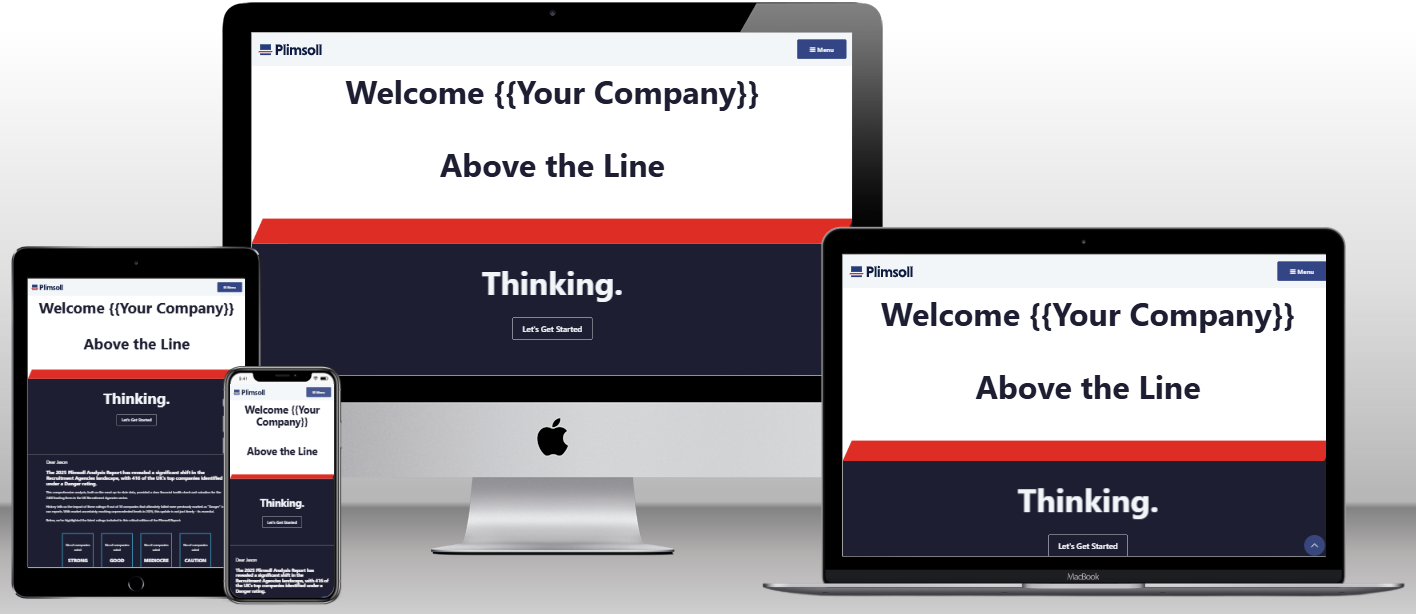
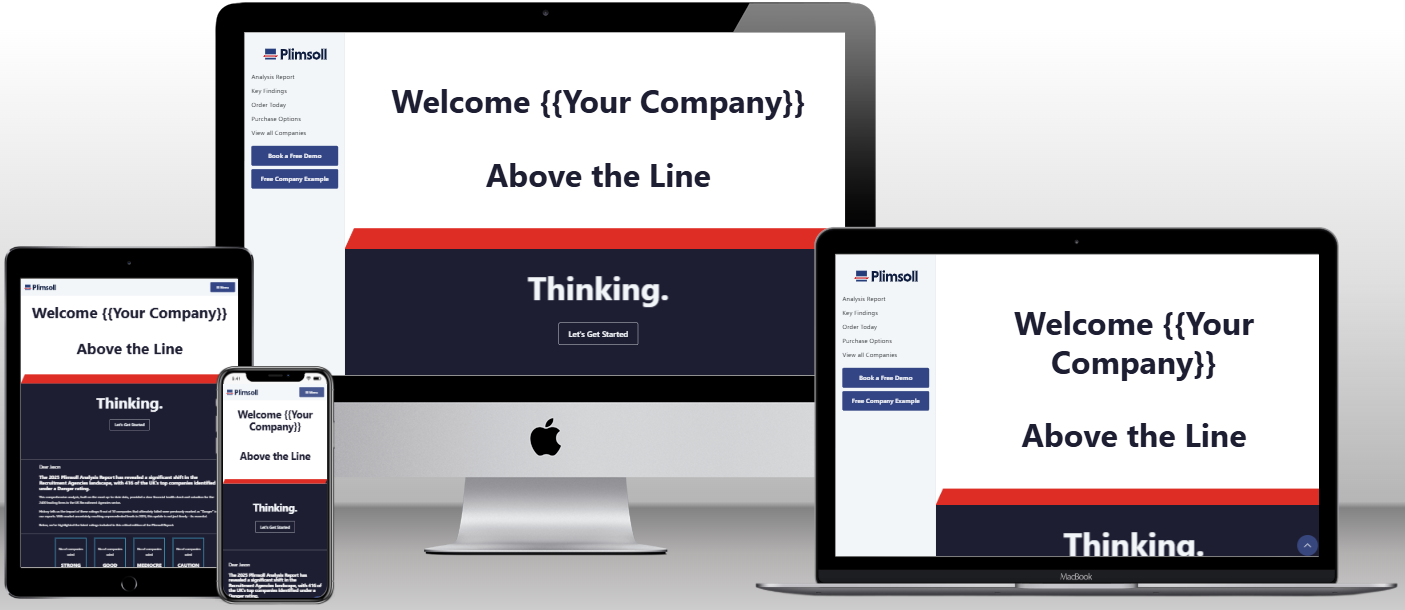
permanent fixed side menu added with active area displayed

diff --git a/js/script.js b/js/script.js
@@ -150,25 +150,40 @@ document.addEventListener("DOMContentLoaded", function () {
   });
  
  
-// ...existing code...
- 
+// Wait until the DOM is fully loaded before executing the script
 document.addEventListener("DOMContentLoaded", function () {
+
+  // Select all navigation links inside the offcanvas menu
   const dropdownItems = document.querySelectorAll('.nav-link');
- 
+
+  // Add a click event listener to each navigation link
   dropdownItems.forEach(item => {
     item.addEventListener('click', function (event) {
+
+      // Get the ID of the target section (removing '#' from the href)
       const targetId = this.getAttribute('href').substring(1);
       const targetElement = document.getElementById(targetId);
- 
+
+      // If the target section exists on the page
       if (targetElement) {
+
+        // Select the offcanvas menu and create a Bootstrap Offcanvas instance
         const offcanvasElement = document.querySelector('.offcanvas');
         const bsOffcanvas = new bootstrap.Offcanvas(offcanvasElement);
-        bsOffcanvas.hide();
- 
-        offcanvasElement.addEventListener("hidden.bs.offcanvas", () => {
-          const targetPosition = targetElement.getBoundingClientRect().top + window.scrollY - 100;
-          window.scrollTo({ top: targetPosition, behavior: 'smooth' });
         
+        // Close the offcanvas menu
+        bsOffcanvas.hide();
+
+        // Wait for the offcanvas menu to fully close before scrolling
+        offcanvasElement.addEventListener("hidden.bs.offcanvas", () => {
+
+          // Calculate the position of the target element (offset by 100px for spacing)
+          const targetPosition = targetElement.getBoundingClientRect().top + window.scrollY - 100;
+
+          // Smoothly scroll to the target section
+          window.scrollTo({ top: targetPosition, behavior: 'smooth' });
+
+          // Remove any lingering offcanvas backdrop (prevents overlay issues)
           const backdrop = document.querySelector('.offcanvas-backdrop');
           if (backdrop) {
             backdrop.remove();
@@ -179,19 +194,66 @@ document.addEventListener("DOMContentLoaded", function () {
   });
 });
  
-// ...existing code...
- 
-  document.addEventListener('DOMContentLoaded', function () {
-    var offcanvasElementList = [].slice.call(document.querySelectorAll('.offcanvas'))
-    var offcanvasList = offcanvasElementList.map(function (offcanvasEl) {
-      return new bootstrap.Offcanvas(offcanvasEl)
-    })
- 
-    document.querySelectorAll('.offcanvas a.nav-link').forEach(function (element) {
-      element.addEventListener('click', function () {
-        offcanvasList.forEach(function (offcanvas) {
-          offcanvas.hide()
-        })
-      })
-    })
-  })
+document.addEventListener('DOMContentLoaded', function () {
+  
+  // Select all offcanvas elements and create Bootstrap Offcanvas instances
+  var offcanvasElementList = [].slice.call(document.querySelectorAll('.offcanvas'));
+  var offcanvasList = offcanvasElementList.map(function (offcanvasEl) {
+    return new bootstrap.Offcanvas(offcanvasEl);
+  });
+
+  // Attach an event listener to every navigation link inside the offcanvas menu
+  document.querySelectorAll('.offcanvas a.nav-link').forEach(function (element) {
+    element.addEventListener('click', function () {
+
+      // Loop through all offcanvas instances and close them
+      offcanvasList.forEach(function (offcanvas) {
+        offcanvas.hide();
+      });
+    });
+  });
+
+});
+  // Detection of active link to then turn text bold and black
+  document.addEventListener("DOMContentLoaded", function () {
+    const sections = document.querySelectorAll("section"); // Select all sections
+    const navLinks = document.querySelectorAll(".nav-link"); // Select all nav links
+    const firstSection = sections.length > 0 ? sections[0] : null; // Get the first section
+    let lastActiveSection = ""; // Store last active section to persist highlight
+  
+    function changeActiveLink() {
+      let currentSection = lastActiveSection; // Default to the last detected section
+      // Check if the user has scrolled above the first section
+      if (firstSection && window.scrollY < firstSection.offsetTop - 150) {
+        navLinks.forEach((link) => link.classList.remove("active")); // Remove active class
+        lastActiveSection = ""; // Reset last active section
+        return;
+      }
+      // Loop through sections and find which one is currently in view
+      sections.forEach((section) => {
+        const sectionTop = section.offsetTop - 370; // Adjust for better detection
+        const sectionBottom = sectionTop + section.offsetHeight;
+  
+        if (window.scrollY >= sectionTop && window.scrollY < sectionBottom) {
+          currentSection = section.getAttribute("id");
+        }
+      });
+  
+      // Update the active link only if the section has changed
+      if (currentSection !== lastActiveSection) {
+        lastActiveSection = currentSection;
+  
+        navLinks.forEach((link) => {
+          link.classList.remove("active");
+          if (link.getAttribute("href").includes(currentSection)) {
+            link.classList.add("active");
+          }
+        });
+      }
+    }
+    // Run on scroll event
+    window.addEventListener("scroll", changeActiveLink);
+  
+    // Also run when page loads (e.g., if the user refreshes while scrolled down)
+    changeActiveLink();
+  });

diff --git a/index.html b/index.html
@@ -29,34 +29,55 @@
     <title>Staging Plimsoll Website</title>
   </head>
   <body>
-    <!-- Navigation -->
 
-    <!--Header-->
+    <!--Navigation on Extra Large Screens -->
+    <nav class="sidebar d-none d-xl-block bg-light">
+      <div class="p-3">
+        <a href="index.html" class="navbar-brand d-block text-center">
+          <img src="https://www.plimsoll.co.uk/img/logo-plimsoll.svg" alt="Plimsoll Logo" class="img-fluid"/>
+        </a>
+        <ul class="list-unstyled mt-4">
+          <li><a href="#report" class="nav-link py-1">Analysis Report</a></li>
+          <li><a href="#findings" class="nav-link py-1">Key Findings</a></li>
+          <li><a href="#order-today" class="nav-link py-1">Order Today</a></li>
+          <li><a href="#pricing" class="nav-link py-1">Purchase Options</a></li>
+          <li><a href="#companies" class="nav-link py-1">View all Companies</a></li>
+          <li class="mt-3">
+            <button type="button" class="btn fw-semibold rounded-1 btn-primary w-100" data-bs-toggle="modal" data-bs-target="#demoModal">
+              Book a Free Demo
+            </button>
+          </li>
+          <li class="mt-2">
+            <button type="button" class="btn fw-semibold rounded-1 btn-primary w-100 px-0" data-bs-toggle="modal" data-bs-target="#companyModal">
+              Free Company Example
+            </button>
+          </li>
+        </ul>
+      </div>
+    </nav>
+
+    <!--Navigation on Large - Extra Small Screens -->
     <header class="header">
       <div class="container">
-        <div class="position-fixed d-flex justify-content-between align-items-center start-0 end-0 bg-light p-3 z-3 navbar navbar-expand-lg navbar-light sticky-top">
+        <div class="position-fixed d-flex justify-content-between align-items-center start-0 end-0 bg-light p-3 z-3 navbar navbar-expand-lg navbar-light sticky-top d-xl-none">
           <a href="index.html" class="top-logo">
             <img
               src="https://www.plimsoll.co.uk/img/logo-plimsoll.svg"
               alt="Plimsoll Logo"
             />
           </a>
-          <button type="button" class="btn btn-primary fw-semibold rounded-1 ms-auto" data-bs-toggle="offcanvas" data-bs-target="#offcanvasExample" aria-controls="offcanvasExample">
+          <button type="button" class="btn btn-primary fw-semibold rounded-1 ms-auto" data-bs-toggle="offcanvas" data-bs-target="#mobileMenu" aria-controls="mobileMenu">
             &#9776; Menu
           </button>
         </div>
       </div>
 
-      <!-- <button class="btn btn-primary" type="button" data-bs-toggle="offcanvas" data-bs-target="#offcanvasExample" aria-controls="offcanvasExample">
-      Button with data-bs-target
-    </button> -->
-
-      <!-- Offcanvas Menu -->
-      <div
-        class="offcanvas offcanvas-start"
+    <!-- Offcanvas Menu for Small Screens -->
+    <div
+        class="offcanvas offcanvas-start d-xl-none"
         tabindex="-1"
-        id="offcanvasExample"
-        aria-labelledby="offcanvasExampleLabel"
+        id="mobileMenu"
+        aria-labelledby="mobileMenuLabel"
       >
         <div class="offcanvas-header">
           <a href="index.html" class="navbar-brand">
@@ -253,6 +274,8 @@
     </header>
 
     <!--Hero-->
+    <main class="content">
+      <div class="container-fluid mt-4">
     <div class="hero text-dark pt-5 mb-5">
       <div class="container-xl">
         <div class="row">
@@ -879,7 +902,7 @@
     </section>
 
     <!-- Footer -->
-    <footer class="border-top border-danger border-2 bg-dark text-white py-4">
+    <footer class="border-top border-danger border-2 bg-dark text-white py-4 px-4">
       <div class="container">
         <div class="row">
           <div class="col-md-8 text-start py-2">
@@ -896,7 +919,8 @@
     <button id="to-top" class="to-top-btn" aria-label="Back to top">
       <img src="images/up-arrow.png" alt="Back to Top" />
     </button>
-
+  </div>
+</main>
     <script src="js/bootstrap.bundle.min.js"></script>
     <script src="js/script.js" defer></script>
   </body>

diff --git a/scss/styles.scss b/scss/styles.scss
@@ -1,3 +1,7 @@
+html {
+  overflow-x: hidden;
+}
+
 .xl-text {
   font-size: 4.5rem;
   color: white;
@@ -14,8 +18,12 @@
   opacity: 0.9;
   box-shadow: 0 0 10px rgba(0, 0, 0, 0.4);
 }
+.nav-link.active {
+  font-weight: bold;
+  color: black !important;
+}
 .red-line {
-  width: 100%;
+  width: 99.1%;
   height: auto;
   display: block;
 }
@@ -278,6 +286,9 @@
   .findings-border:after {
     display: none;
   }
+  .red-line {
+    width: 100%;
+  }
 }
 .background-plimsoll {
   background: url("../images/logo-overlay.png") center center no-repeat;
@@ -288,5 +299,83 @@
 @media (max-width: 576px) {
   .background-plimsoll {
     background-image: none;
+  }
+}
+// Sidebar for Large Screens
+.sidebar {
+  width: 250px;
+  position: fixed;
+  left: 0;
+  top: 0;
+  height: 100vh;
+  overflow-y: auto;
+  border-right: 1px solid #ddd;
+  padding-top: 20px;
+  background: #f8f9fa; // Matches Bootstrap light background
+}
+
+// Content Area - Ensuring Full Width
+.content {
+  flex: 1;
+  margin-left: 250px; // No overlap with sidebar
+  width: calc(100vw - 250px); // Fill remaining space
+  max-width: 100%;
+  background: white; // Ensure consistent background
+}
+
+// Bootstrap Container Fix (Remove Margins)
+.container-fluid {
+  max-width: 100%;
+  padding-left: 0;
+  padding-right: 0;
+}
+
+// Mobile Menu Button Styling
+.menu-button {
+  position: fixed;
+  top: 15px;
+  left: 15px;
+  z-index: 1050;
+  color: white;
+  font-weight: bold;
+  border: none;
+  padding: 10px 20px;
+  border-radius: 5px;
+}
+
+// Hide Menu Button on Large Screens
+@media (min-width: 992px) {
+  .menu-button {
+    display: none;
+  }
+  .content {
+    margin-left: 250px;
+    width: calc(100vw - 250px);
+  }
+}
+
+// Adjust for Small Screens
+@media (max-width: 991px) {
+  .content {
+    margin-left: 0;
+    width: 100%;
+  }
+}
+// Hide Menu Button on Medium Screens
+@media (min-width: 1199px) {
+  .menu-button {
+    display: none;
+  }
+  .content {
+    margin-left: 250px;
+    width: calc(100vw - 250px);
+  }
+}
+
+// Adjust for Medium Screens
+@media (max-width: 1199px) {
+  .content {
+    margin-left: 0;
+    width: 100%;
   }
 }

diff --git a/readme.md b/readme.md
@@ -8,8 +8,10 @@ Bootstrap website for showcasing company and industry report data. This website 
 
 - Modern layout with custom colours/styles/backgrounds
 - Responsive design
-- Burger menu with included button modals
+- Left hand side menu for larger screens containing two button modals
+- Burger menu with included button modals (Mobile Only)
 - Jump to top button
+- Sections highlighted when active
 - Analysis Report Data
 - Findings Information
 - Purchase Options
